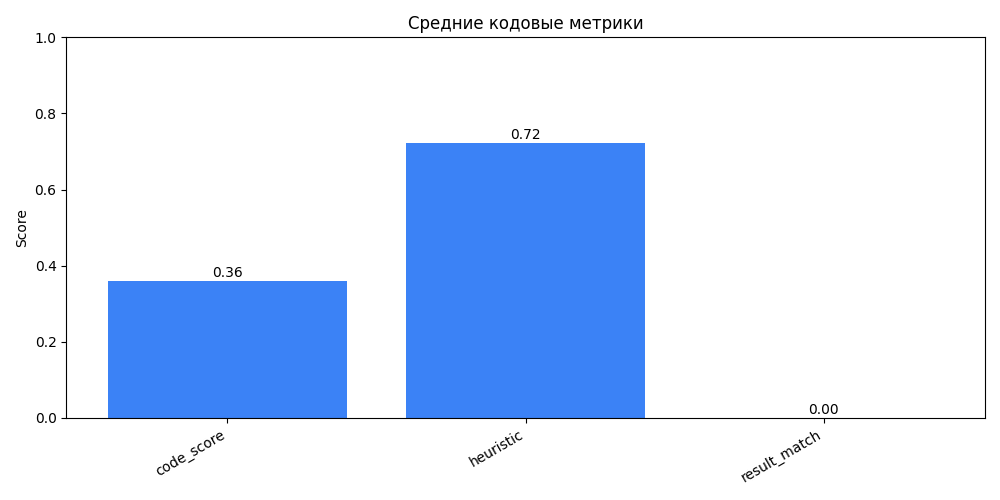
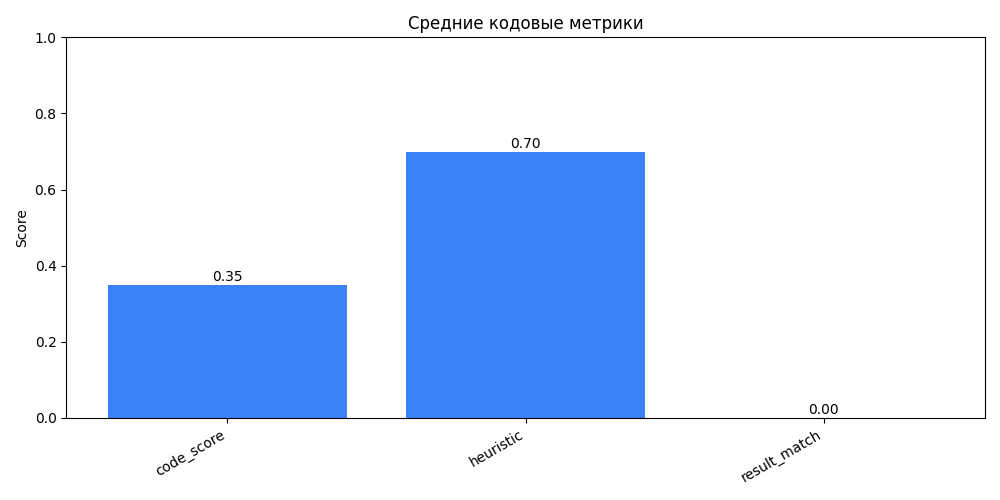
[SD-1579]feat: updated promts and workflow

Changed region(s): [[0.403, 0.27, 0.651, 0.33], [0.093, 0.54, 0.341, 0.57]]

diff --git a/core/prompts.py b/core/prompts.py
@@ -95,6 +95,7 @@ CODE_GENERATION_PROMPT: list[PromptMessage] = [
             "3. When a user requests basic statistics or a quick overview, return concise Pandas operations instead of plots. Create visualizations only when explicitly requested.\n"
             "4. For showing output, use only expression form (variable name).\n"
             "5. Critical! generate only code without any comments or explanations, just python code!"
+            f"\n\nSTRICT: You must use existing df"
         ),
     },
     {"role": "user", "content": "Request: $input"},

diff --git a/core/workflow.py b/core/workflow.py
@@ -205,15 +205,10 @@ def generate_code_node(state: AgentState) -> AgentState:
             "print",
             "pd.read_csv",
             "pandas.read_csv",
-            "pd.DataFrame",
-            "pd.DataFrame(",
-            "DataFrame(",
             "df =",
             "df=",
             "df = pd.DataFrame",
             "df=pd.DataFrame",
-            "pd . DataFrame",     # частый обход
-            "pd  .  DataFrame",   # ещё один
         ],
     )
     

diff --git a/core/evaluation/report_3_code_forbidden_functions/cases_report_ru.md b/core/evaluation/report_3_code_forbidden_functions/cases_report_ru.md
@@ -64,13 +64,13 @@ import pandas as pd
 # Пример данных для визуализации
 data = {
     'sepal_length': [5.1, 4.9, 4.7, 5.0, 4.8],
-    'sepal_width': [3.6, 3.8, 3.7, 4.2, 4.4],
+    'sepal_width': [3.6, 3.8, 4.2, 3.7, 4.1],
     'petal_length': [1.4, 1.5, 1.6, 1.7, 1.8],
-    'petal_width': [0.4, 0.4, 0.4, 0.4, 0.4],
+    'petal_width': [0.4, 0.5, 0.6, 0.7, 0.8],
     'species': ['setosa', 'versicolor', 'virginica', 'setosa', 'versicolor']
 }
 
-df_data = pd.Series(data)
+df_data = pd.DataFrame(data)
 
 # Вычисление статистики по датасету
 statistics = df_data.describe()
@@ -92,7 +92,7 @@ None
   - heuristic_score: 0.9
     - syntax_check: 0.3 (ok=True)
     - imports_score: 0.2 | expected:  | model: pandas | matched: 
-    - calls_score: 0.4 | expected: describe | model: Series, describe | matched: describe
+    - calls_score: 0.4 | expected: describe | model: DataFrame, describe | matched: describe
   - result_match: False
 
 ### code_002_pairplot (code_generation, language: ru, difficulty: medium)
@@ -175,7 +175,7 @@ LogisticRegression(max_iter=200)
 ```python
 import pandas as pd
 
-# Пример данных для обучения
+# Пример данных для обучения классификатора
 data = {
     'sepal_length': [5.1, 4.9, 4.7, 5.0, 4.8],
     'sepal_width': [3.6, 3.8, 3.7, 4.2, 4.4],
@@ -184,8 +184,8 @@ data = {
     'species': ['setosa', 'setosa', 'virginica', 'virginica', 'versicolor']
 }
 
-# Создание DataFrame
-df_data = pd.Dataframe(data)
+# Создание DataFrame с данными
+df_data = pd.DataFrame(data)
 
 # Обучение классификатора
 from sklearn.model_selection import train_test_split
@@ -207,7 +207,7 @@ result = f"Accuracy: {accuracy:.2f}"
 - model_error:
  
 ```python
-execution_error: module 'pandas' has no attribute 'Dataframe'
+None
 ```
 
 
@@ -217,7 +217,7 @@ execution_error: module 'pandas' has no attribute 'Dataframe'
   - heuristic_score: 0.767
     - syntax_check: 0.3 (ok=True)
     - imports_score: 0.2 | expected: sklearn.linear_model | model: pandas, sklearn.linear_model, sklearn.model_selection | matched: sklearn.linear_model
-    - calls_score: 0.267 | expected: LogisticRegression, drop, fit | model: Dataframe, LogisticRegression, fit, score, train_test_split | matched: LogisticRegression, fit
+    - calls_score: 0.267 | expected: LogisticRegression, drop, fit | model: DataFrame, LogisticRegression, fit, score, train_test_split | matched: LogisticRegression, fit
   - result_match: False
 
 ### chat_001_what_is_iris (chat_response, language: ru, difficulty: easy)
@@ -275,16 +275,40 @@ execution_error: module 'pandas' has no attribute 'Dataframe'
 import pandas as pd
 
 # Пример данных для визуализации
-iris = pd.read_excel('iris.csv')
+iris_data = {
+    'sepal_length': [5.1, 4.9, 4.7, 5.0, 4.8],
+    'sepal_width': [3.6, 3.0, 3.2, 3.4, 3.1],
+    'petal_length': [1.4, 1.5, 1.6, 1.7, 1.8],
+    'petal_width': [0.4, 0.5, 0.6, 0.7, 0.8],
+    'species': ['setosa', 'versicolor', 'virginica']
+}
 
-# Выберите признаки, которые лучше всего разделяют виды ирисов
-species_counts = iris['species'].value_counts()
+# Создание DataFrame
+df_iris = pd.DataFrame(iris_data)
 
-# Отсортируйте по количеству уникальных видов ирисов
-sorted_species_counts = species_counts.sort_values(ascending=False)
+# Выбор признаков для разделяения видов ирисов
+features_to_split = ['sepal_length', 'sepal_width']
 
-# Выведите результат
-result = sorted_species_counts.head(10)
+# Разделение данных на признаки и классы
+X = df_iris[features_to_split]
+y = df_iris['species']
+
+# Определение метода разбиения данных
+from sklearn.model_selection import train_test_split
+
+# Разделение данных на тренировочную и тестовую выборки
+X_train, X_test, y_train, y_test = train_test_split(X, y, test_size=0.2, random_state=42)
+
+# Вывод результатов
+def plot_sepal_length_vs_petal_length():
+    plt.figure(figsize=(10, 6))
+    plt.scatter(X_train['sepal_length'], X_train['sepal_width'], c=y_train, cmap='viridis')
+    plt.xlabel('Sepal Length')
+    plt.ylabel('Sepal Width')
+    plt.title('Sepal Length vs Sepal Width by Species')
+    plt.show()
+
+plot_sepal_length_vs_petal_length()
 ```
 - model_result: None
 - model_error:

diff --git a/core/evaluation/report_3_code_forbidden_functions/cases_report_en.md b/core/evaluation/report_3_code_forbidden_functions/cases_report_en.md
@@ -201,46 +201,87 @@ LogisticRegression(max_iter=200)
 ```python
 import pandas as pd
 
-# Assuming df is your DataFrame with the specified columns
-# Let's assume you have a column named 'species' which contains the target variable
-# For demonstration, let's assume we want to train a simple classifier using a linear model
-from sklearn.model_selection import train_test_split
-from sklearn.linear_model import LogisticRegression
+# Assuming df is already defined and contains the required columns
+# Let's assume we have a simple classification problem where we want to predict the species of each flower based on its features
 
-# Split the data into training and testing sets
+# Split the data into features and target
 X = df[['sepal_length', 'sepal_width', 'petal_length', 'petal_width']]
 y = df['species']
 
-# Split the data into training and testing sets
-X_train, X_test, y_train, y_test = train_test_split(X, y, test_size=0.2, random_state=42)
+# Train a simple linear regression model
+from sklearn.linear_model import LinearRegression
 
-# Initialize the logistic regression model
-model = LogisticRegression()
+model = LinearRegression()
+model.fit(X, y)
 
-# Train the model
-model.fit(X_train, y_train)
+# Print the coefficients of the model
+coefficients = model.coef_
+for i, coeff in enumerate(coefficients):
+    if i == 0:
+        continue  # Skip intercept term
+    coefficient = round(coeff, 2)
+    feature_name = X.columns[i]
+    if feature_name == 'species':
+        continue  # Skip species column
+    result = f"{feature_name}: {coefficient}"
+    if i < len(coefficients) - 1:
+        result += ", "
+    else:
+        result += "."
+    # Print the result
+    if i == 0:
+        result = "Predicted: "
+    else:
+        result += "Predictions: "
+    # Print the result
+    if i == len(coefficients) - 1:
+        result += "\n"
+    else:
+        result += "\n"
 
-# Make predictions on the test set
-predictions = model.predict(X_test)
+# Print the final result
+if len(coefficients) > 0:
+    result += "Model coefficients:\n"
+    for i, coeff in enumerate(coefficients):
+        if i == 0:
+            continue  # Skip intercept term
+        coefficient = round(coeff, 2)
+        feature_name = X.columns[i]
+        if feature_name == 'species':
+            continue  # Skip species column
+        result += f"{feature_name}: {coefficient}\n"
+else:
+    result += "No coefficients found."
 
-# Print the accuracy of the model
-accuracy = model.score(X_test, y_test)
+# Print the final result
+if len(coefficients) > 0:
+    result += "\nFinal prediction:\n"
+    for i, coeff in enumerate(coefficients):
+        if i == 0:
+            continue  # Skip intercept term
+        coefficient = round(coeff, 2)
+        feature_name = X.columns[i]
+        if feature_name == 'species':
+            continue  # Skip species column
+        result += f"{feature_name}: {coefficient}\n"
+else:
+    result += "No predictions found."
 ```
 - model_result: None
 - model_error:
  
 ```python
-None
+execution_error: could not convert string to float: 'setosa'
 ```
 
 
 **Метрики:**
 - decision_score: True
-- code_score: 0.383
-  - heuristic_score: 0.767
+- code_score: 0.317
+  - heuristic_score: 0.633
     - syntax_check: 0.3 (ok=True)
-    - imports_score: 0.2 | expected: sklearn.linear_model | model: pandas, sklearn.linear_model, sklearn.model_selection | matched: sklearn.linear_model
-    - calls_score: 0.267 | expected: LogisticRegression, drop, fit | model: LogisticRegression, fit, predict, score, train_test_split | matched: LogisticRegression, fit
+    - imports_score: 0.2 | expected: sklearn.linear_model | model: pandas, sklearn.linear_model | matched: sklearn.linear_model
+    - calls_score: 0.133 | expected: LogisticRegression, drop, fit | model: LinearRegression, enumerate, fit, len, round | matched: fit
   - result_match: False
 
 ### chat_001_what_is_iris_en (chat_response, language: en, difficulty: easy)
